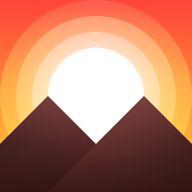
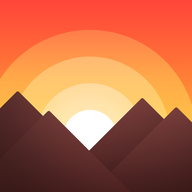
1

diff --git a/sw.js b/sw.js
@@ -1,5 +1,5 @@
-const CACHE='red-ridge-shell-v33-new-icon';
-const ASSETS=['./','./index.html','./style.css','./app.js','./core.mjs','./cloud.js','./manifest.webmanifest','./icon-192.png','./icon-512.png','./figtree-400.ttf','./figtree-500.ttf','./figtree-600.ttf','./figtree-700.ttf','./vendor/firebase-app.js','./vendor/firebase-auth.js','./vendor/firebase-firestore.js'];
+const CACHE='red-ridge-shell-v34-icon-2';
+const ASSETS=['./','./index.html','./style.css','./app.js','./core.mjs','./cloud.js','./manifest.webmanifest','./icon-192.png','./icon-512.png','./icon-maskable-192.png','./icon-maskable-512.png','./figtree-400.ttf','./figtree-500.ttf','./figtree-600.ttf','./figtree-700.ttf','./vendor/firebase-app.js','./vendor/firebase-auth.js','./vendor/firebase-firestore.js'];
 self.addEventListener('install',event=>event.waitUntil(caches.open(CACHE).then(cache=>cache.addAll(ASSETS))));
 self.addEventListener('activate',event=>event.waitUntil((async()=>{for(const key of await caches.keys())if((key.startsWith('daily-shell-')||key.startsWith('red-ridge-shell-'))&&key!==CACHE)await caches.delete(key);await self.clients.claim()})()));
 self.addEventListener('fetch',event=>{const url=new URL(event.request.url);if(event.request.method!=='GET'||url.origin!==self.location.origin)return;const allowed=ASSETS.map(path=>new URL(path,self.registration.scope).href);if(event.request.mode!=='navigate'&&!allowed.includes(url.href))return;
